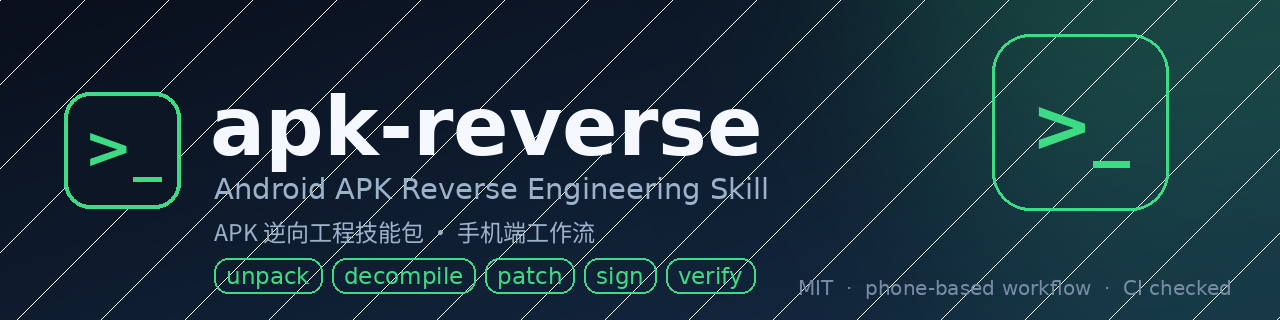
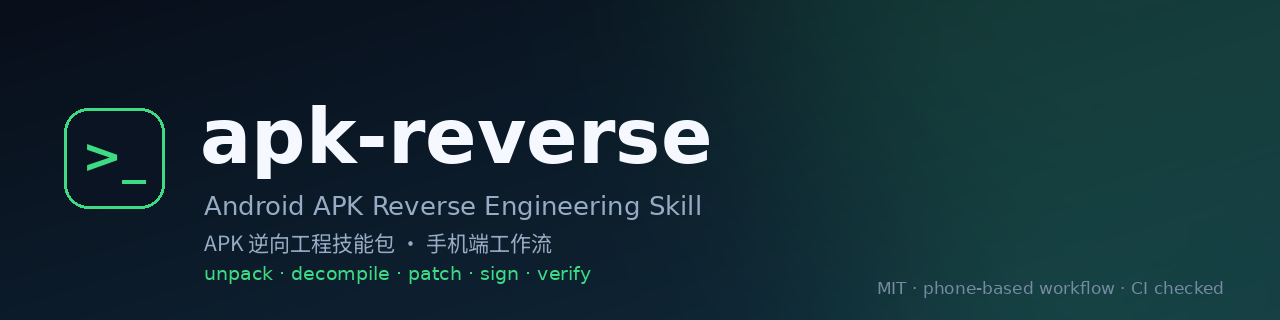
docs: 横幅重做（去掉右侧图形与斜纹，明暗双版同步）v0.0.9

diff --git a/CHANGELOG.md b/CHANGELOG.md
@@ -6,6 +6,13 @@ versioning follows [Semantic Versioning](https://semver.org/).
 
 ## [Unreleased]
 
+## [0.0.9] - 2026-11-15
+
+### Changed
+
+- 横幅重做：去掉右侧重复的图形标记和斜纹底，改为干净的左对齐排版（圆形方标 + 标题 + 中英副标题 + 关键词一行）
+- 深色 / 浅色两版同步更新，浅色主题下自动切换
+
 ## [0.0.8] - 2026-11-15
 
 ### Changed

diff --git a/README.md b/README.md
@@ -74,7 +74,7 @@ APK
 
 | Version | Scripts | Reference docs | CI | License |
 |---:|---:|---:|---|---|
-| v0.0.8 | 28 | 18 | GitHub Actions | MIT |
+| v0.0.9 | 28 | 18 | GitHub Actions | MIT |
 
 <p align="center">
   <a href="https://star-history.com/#xiaotianya14/apk-reverse-skill&Date">

diff --git a/README_zh.md b/README_zh.md
@@ -72,7 +72,7 @@ APK
 
 | 版本 | 脚本 | 专题文档 | CI | 许可 |
 |---:|---:|---:|---|---|
-| v0.0.8 | 28 | 18 | GitHub Actions | MIT |
+| v0.0.9 | 28 | 18 | GitHub Actions | MIT |
 
 <p align="center">
   <a href="https://star-history.com/#xiaotianya14/apk-reverse-skill&Date">
